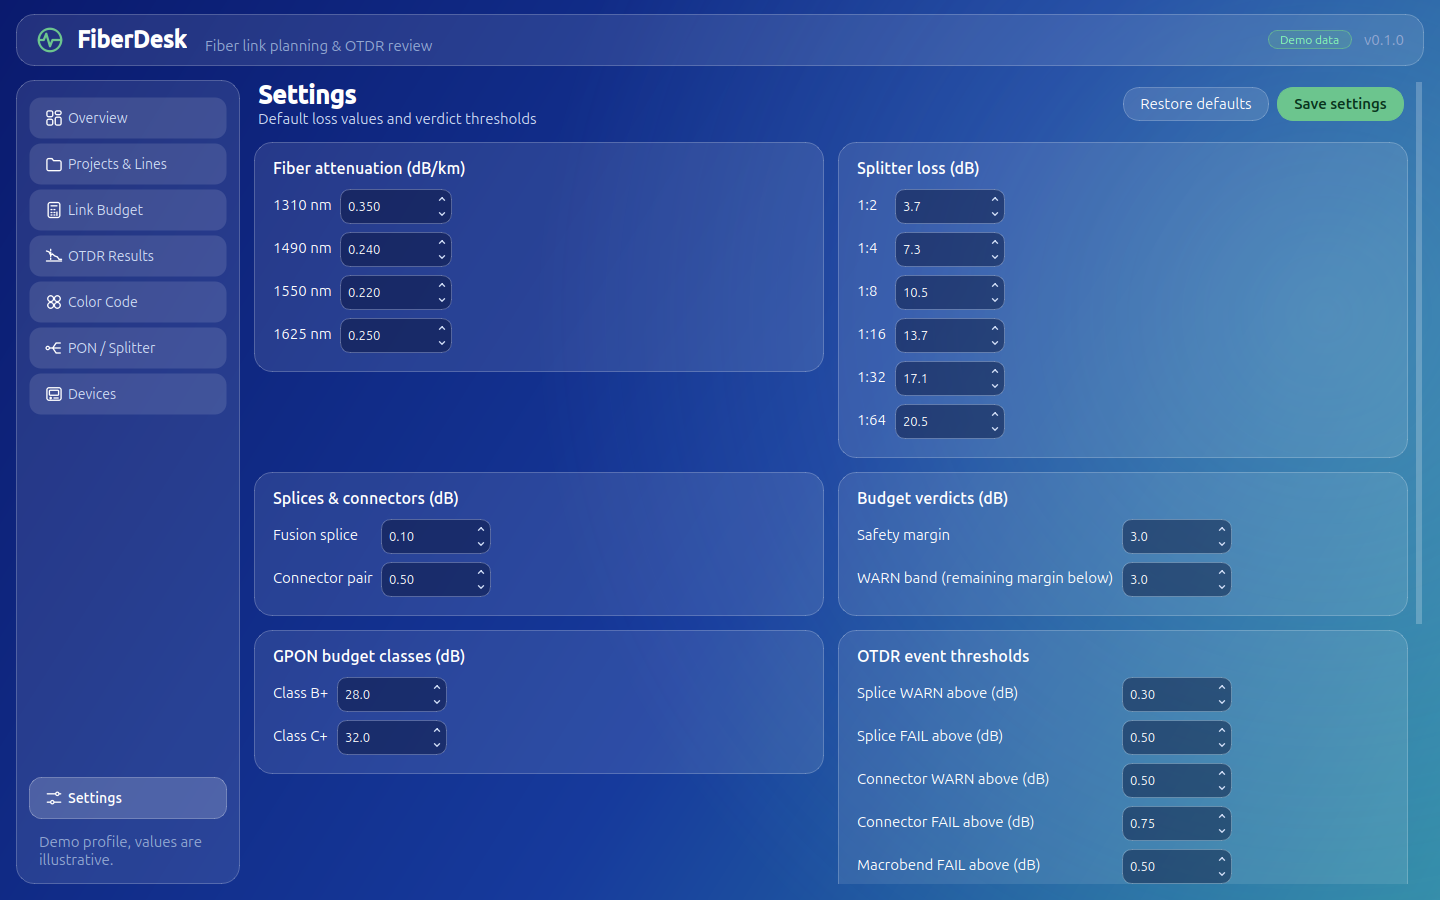
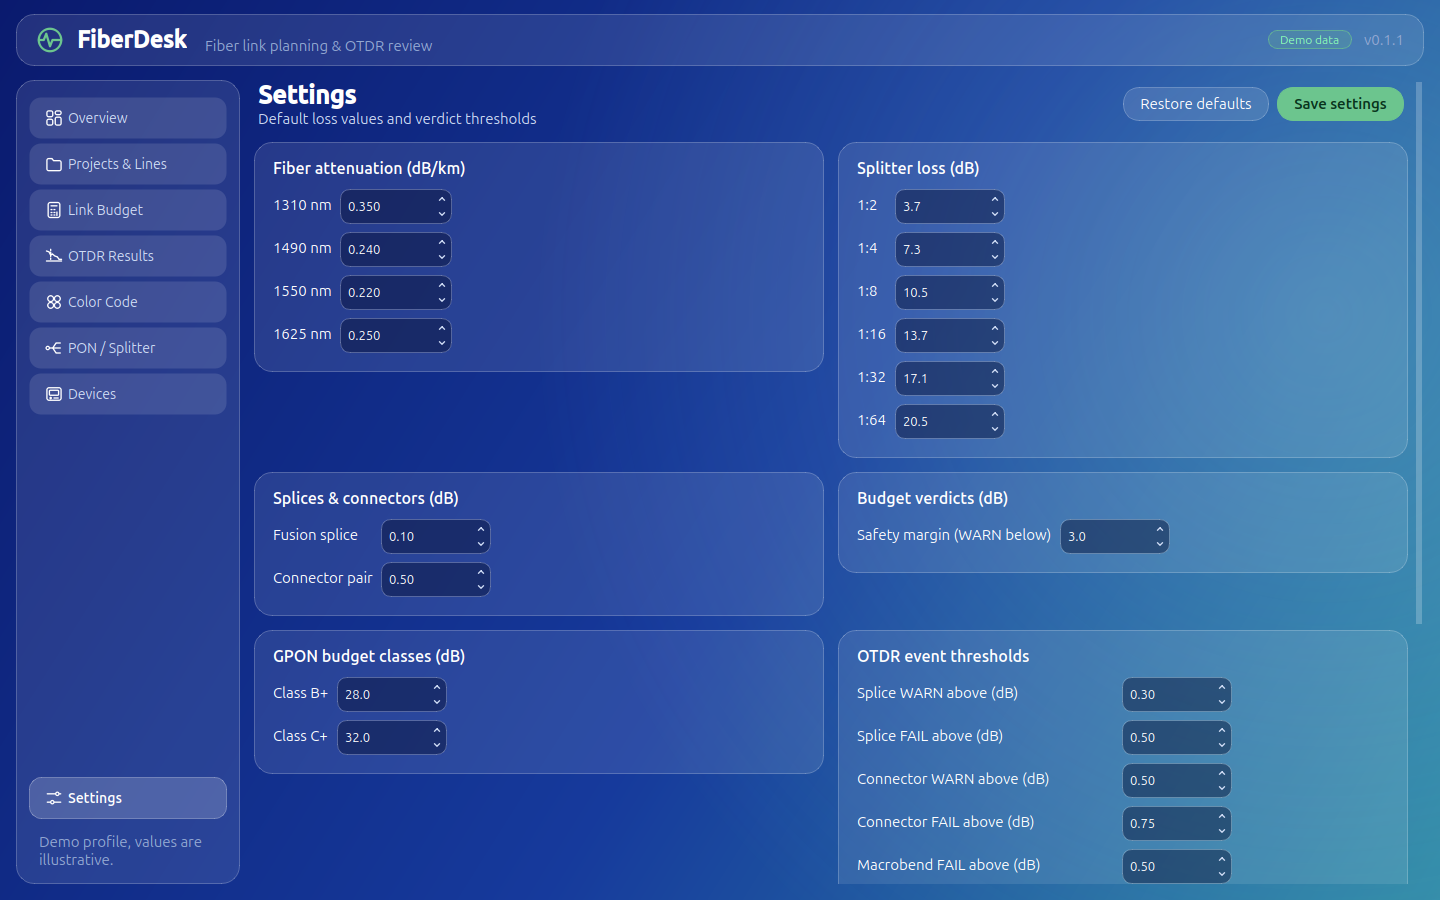
FiberDesk v0.1.1: safety margin as a threshold, CI
- Budget rule: remaining = power budget - total loss; FAIL below 0 dB,
  WARN below the safety margin, PASS otherwise. The separate WARN band
  setting is gone; the same rule grades the GPON B+/C+ classes.
- Link Budget screen shows power budget, total loss, remaining margin
  and required safety margin on separate rows
- Demo data regenerated: operators are role labels (Technician A-F),
  weaker optics keep a realistic mix of budget verdicts
- Tests updated for the new rule; screenshots refreshed
- README: Link budget and PON sections follow the new rule
- GitHub Actions workflow runs pytest on every push and pull request

Changed region(s): [[0.5938, 0.56, 0.875, 0.6844]]

diff --git a/fiberdesk/ui/pages/budget.py b/fiberdesk/ui/pages/budget.py
@@ -21,20 +21,6 @@ SPLITTER_PRESETS = ("", "1:2", "1:4", "1:8", "1:16", "1:32", "1:64", "1:4 + 1:8"
                     "1:2 + 1:16", "1:4 + 1:16")
 
 
-def metric(label: str) -> tuple[QWidget, QLabel]:
-    box = QWidget()
-    lay = QVBoxLayout(box)
-    lay.setContentsMargins(0, 0, 0, 0)
-    lay.setSpacing(0)
-    value = QLabel("—")
-    value.setObjectName("MidValue")
-    caption = QLabel(label)
-    caption.setObjectName("StatLabel")
-    lay.addWidget(value)
-    lay.addWidget(caption)
-    return box, value
-
-
 class BudgetPage(QWidget):
     def __init__(self, ctx: AppContext):
         super().__init__()
@@ -114,23 +100,28 @@ class BudgetPage(QWidget):
         self.badge = StatusBadge(None, large=True)
         top.addWidget(self.badge, 0, Qt.AlignmentFlag.AlignVCenter)
         top.addSpacing(10)
-        remaining_box = QVBoxLayout()
-        remaining_box.setSpacing(0)
-        self.remaining = QLabel("—")
-        self.remaining.setObjectName("BigValue")
-        cap = QLabel(tr("budget.remaining"))
-        cap.setObjectName("StatLabel")
-        remaining_box.addWidget(self.remaining)
-        remaining_box.addWidget(cap)
-        top.addLayout(remaining_box, 1)
+        self.verdict = QLabel()
+        self.verdict.setObjectName("StatLabel")
+        self.verdict.setWordWrap(True)
+        top.addWidget(self.verdict, 1)
         summary.body.addLayout(top)
+
+        # One row per figure; remaining margin and the required safety margin are separate.
         grid = QGridLayout()
         grid.setHorizontalSpacing(24)
-        boxes = [metric(tr("budget.available")), metric(tr("budget.total_loss")),
-                 metric(tr("budget.safety"))]
-        for i, (box, _) in enumerate(boxes):
-            grid.addWidget(box, 0, i)
-        self.available, self.total, self.safety_value = (v for _, v in boxes)
+        grid.setVerticalSpacing(6)
+        self.values: dict[str, QLabel] = {}
+        for r, key in enumerate(("available", "total_loss", "remaining", "safety")):
+            label = QLabel(tr(f"budget.{key}"))
+            label.setObjectName("StatLabel")
+            value = QLabel("—")
+            value.setObjectName("MidValue")
+            value.setAlignment(Qt.AlignmentFlag.AlignRight | Qt.AlignmentFlag.AlignVCenter)
+            value.setFont(theme.tabular(value.font()))
+            grid.addWidget(label, r, 0)
+            grid.addWidget(value, r, 1)
+            self.values[key] = value
+        grid.setColumnStretch(2, 1)
         summary.body.addLayout(grid)
         self.usage = SegmentBar(height=14)
         summary.body.addWidget(self.usage)
@@ -272,28 +263,29 @@ class BudgetPage(QWidget):
         res = calculate_budget(inp, self.ctx.defaults)
         self._result = res
         self.badge.set_status(res.status)
-        self.remaining.setText(f"{res.remaining_db:+.2f} dB")
-        self.remaining.setStyleSheet(f"color: {theme.status_color(res.status).name()};")
-        self.available.setText(f"{res.available_db:.2f} dB")
-        self.total.setText(f"{res.total_loss_db:.2f} dB")
-        self.safety_value.setText(f"{res.safety_margin_db:.2f} dB")
+        self.verdict.setText(tr(f"budget.verdict.{res.status.value}"))
+        self.values["available"].setText(f"{res.available_db:.2f} dB")
+        self.values["total_loss"].setText(f"{res.total_loss_db:.2f} dB")
+        self.values["remaining"].setText(f"{res.remaining_db:+.2f} dB")
+        self.values["remaining"].setStyleSheet(f"color: {theme.status_color(res.status).name()};")
+        self.values["safety"].setText(f"{res.safety_margin_db:.2f} dB")
 
+        # Losses, then the remaining margin split into the reserved safety part and the rest.
+        remaining = max(0.0, res.remaining_db)
+        reserved = min(remaining, res.safety_margin_db)
         segments = [(i.loss_db, theme.LOSS_COLORS[i.key]) for i in res.items]
-        segments.append((res.safety_margin_db, theme.LOSS_COLORS["safety"]))
-        segments.append((max(0.0, res.remaining_db), theme.LOSS_COLORS["remaining"]))
+        segments += [(reserved, theme.LOSS_COLORS["safety"]),
+                     (remaining - reserved, theme.LOSS_COLORS["remaining"])]
         self.usage.set_segments(segments)
         legend = [(tr(f"loss.{i.key}"), theme.LOSS_COLORS[i.key]) for i in res.items]
         legend += [(tr("loss.safety"), theme.LOSS_COLORS["safety"]),
                    (tr("loss.remaining"), theme.LOSS_COLORS["remaining"])]
         self.legend.setText("   ".join(f"<span style='color:{c}'>●</span> {t}" for t, c in legend))
-        self.rule.setText(tr("budget.rule", warn=f"{self.ctx.defaults.warn_band_db:g}"))
+        self.rule.setText(tr("budget.rule", safety=f"{res.safety_margin_db:g}"))
 
         rows = [(tr(f"loss.{i.key}"), i.loss_db, theme.LOSS_COLORS[i.key], f"{i.loss_db:.2f} dB")
                 for i in res.items]
-        rows.append((tr("loss.safety"), res.safety_margin_db, theme.LOSS_COLORS["safety"],
-                     f"{res.safety_margin_db:.2f} dB"))
-        self.chart.set_rows(rows, scale=max(res.available_db, res.total_loss_db
-                                            + res.safety_margin_db, 1.0))
+        self.chart.set_rows(rows, scale=max(res.available_db, res.total_loss_db, 1.0))
         self.details.setText("<br>".join(
             f"<b>{tr(f'loss.{i.key}')}</b>: {i.detail}" for i in res.items))
         self.save_btn.setEnabled(self.line_combo.currentData() is not None)

diff --git a/tests/test_budget.py b/tests/test_budget.py
@@ -17,8 +17,9 @@ def test_loss_items_use_default_table():
     assert losses["splitters"] == pytest.approx(17.1)
     assert result.total_loss_db == pytest.approx(22.0)
     assert result.available_db == pytest.approx(31.0)
-    # 31 - 22 - 3 (safety) = 6 dB left → PASS
-    assert result.remaining_db == pytest.approx(6.0)
+    # 31 - 22 = 9 dB left, above the 3 dB safety margin → PASS
+    assert result.remaining_db == pytest.approx(9.0)
+    assert result.safety_margin_db == pytest.approx(3.0)
     assert result.status is Status.PASS
 
 
@@ -29,9 +30,9 @@ def test_fiber_attenuation_per_wavelength(wavelength, expected):
 
 
 @pytest.mark.parametrize("rx, status", [
-    (-13.0, Status.FAIL),  # 13 - 10.5 - 3 = -0.5
-    (-15.0, Status.WARN),  # 1.5
-    (-17.0, Status.PASS),  # 3.5
+    (-10.0, Status.FAIL),  # 10 - 10.5 = -0.5
+    (-12.0, Status.WARN),  # 1.5, below the 3 dB safety margin
+    (-14.0, Status.PASS),  # 3.5
 ])
 def test_status_bands(rx, status):
     # Loss is exactly 10.5 dB (one 1:8 splitter), safety 3 dB.
@@ -41,12 +42,22 @@ def test_status_bands(rx, status):
     assert result.status is status
 
 
-def test_warn_band_edges():
+def test_safety_margin_edges():
     base = dict(length_km=0.0, wavelength_nm=1310, splices=0, connectors=0)
-    # remaining exactly 0 → WARN, exactly 3 → PASS
-    assert calculate_budget(BudgetInput(0.0, -3.0, **base)).status is Status.WARN
-    assert calculate_budget(BudgetInput(0.0, -6.0, **base)).status is Status.PASS
-    assert calculate_budget(BudgetInput(0.0, -2.99, **base)).status is Status.FAIL
+    # No loss: remaining = power budget. Exactly 0 → WARN, exactly the safety margin → PASS.
+    assert calculate_budget(BudgetInput(0.0, 0.0, **base)).status is Status.WARN
+    assert calculate_budget(BudgetInput(0.0, -2.99, **base)).status is Status.WARN
+    assert calculate_budget(BudgetInput(0.0, -3.0, **base)).status is Status.PASS
+    assert calculate_budget(BudgetInput(0.0, 0.01, **base)).status is Status.FAIL
+
+
+def test_safety_margin_is_a_threshold_not_a_loss():
+    inp = dict(tx_power_dbm=0.0, rx_sensitivity_dbm=-10.0, length_km=0.0, wavelength_nm=1310,
+               splices=0, connectors=2)
+    strict = calculate_budget(BudgetInput(**inp, safety_margin_db=9.5))
+    relaxed = calculate_budget(BudgetInput(**inp, safety_margin_db=1.0))
+    assert strict.remaining_db == relaxed.remaining_db == pytest.approx(9.0)
+    assert (strict.status, relaxed.status) == (Status.WARN, Status.PASS)
 
 
 def test_explicit_safety_margin_and_custom_defaults():

diff --git a/fiberdesk/i18n.py b/fiberdesk/i18n.py
@@ -52,7 +52,7 @@ EN: dict[str, str] = {
     "loss.connectors": "Connectors",
     "loss.splitters": "Splitters",
     "loss.bends": "Bends",
-    "loss.safety": "Safety margin",
+    "loss.safety": "Safety reserve",
     "loss.remaining": "Remaining",
 
     # Dashboard
@@ -135,20 +135,23 @@ EN: dict[str, str] = {
     "budget.splices": "Splices",
     "budget.connectors": "Connectors (pairs)",
     "budget.splitters": "Splitter cascade",
-    "budget.safety": "Safety margin",
+    "budget.safety": "Safety margin (required)",
     "budget.result": "Result",
     "budget.available": "Power budget",
     "budget.total_loss": "Total loss",
     "budget.remaining": "Remaining margin",
+    "budget.verdict.PASS": "Remaining margin covers the safety margin.",
+    "budget.verdict.WARN": "Link closes, but the remaining margin is below the safety margin.",
+    "budget.verdict.FAIL": "Losses exceed the power budget.",
     "budget.breakdown": "Loss breakdown",
-    "budget.breakdown_hint": "Share of the power budget used by each item",
+    "budget.breakdown_hint": "Loss of each item against the power budget",
     "budget.save": "Save to line",
     "budget.saved": "Saved to {line} at {time}",
     "budget.last_saved": "Last saved {time}: {status}, {margin} dB",
     "budget.never_saved": "No budget saved for this line yet",
     "budget.reset": "Reset",
     "budget.bad_splitter": "Splitter cascade not understood. Use ratios like 1:4 + 1:8.",
-    "budget.rule": "Remaining = budget − loss − safety. Below 0 dB FAIL, under {warn} dB WARN.",
+    "budget.rule": "Remaining margin = power budget − total loss. Below 0 dB FAIL, below the {safety} dB safety margin WARN, otherwise PASS.",
 
     # OTDR
     "otdr.title": "OTDR Results",
@@ -269,8 +272,7 @@ EN: dict[str, str] = {
     "set.connector": "Connector pair",
     "set.splitters": "Splitter loss (dB)",
     "set.verdicts": "Budget verdicts (dB)",
-    "set.safety": "Safety margin",
-    "set.warn_band": "WARN band (remaining margin below)",
+    "set.safety": "Safety margin (WARN below)",
     "set.gpon": "GPON budget classes (dB)",
     "set.gpon_b": "Class B+",
     "set.gpon_c": "Class C+",

diff --git a/fiberdesk/storage/seed.py b/fiberdesk/storage/seed.py
@@ -27,7 +27,8 @@ DEFAULT_SEED = 598
 REFERENCE_DATE = datetime(2026, 10, 15, 17, 0)  # demo "today"; measurements fall in the 6 months before
 RECEIVE_FIBER_KM = 0.15
 
-OPERATORS = ("Ece Yalın", "Burak Tunç", "Selin Akdağ", "Kaan Oruç", "Nil Sarp", "Emre Kılıç")
+# Role labels rather than personal names, so no real person can be implied.
+OPERATORS = tuple(f"Technician {c}" for c in "ABCDEF")
 
 DEVICES = (
     ("maxtester-730d", "FD7D-24-0117", "2026-03-11", "PON Field Team"),
@@ -100,11 +101,11 @@ class Layout:
 # Transmitter power / receiver sensitivity pairs (dBm) per style. The first entry is
 # the usual optic; the others are weaker parts that leave some links tight on budget.
 OPTICS = {
-    "pon": ((3.0, -28.0), (3.0, -28.0), (1.5, -27.0)),
+    "pon": ((3.0, -28.0), (3.0, -28.0), (0.5, -25.0)),
     "backbone": ((2.0, -24.0), (2.0, -24.0), (0.0, -20.0)),
-    "ring": ((-1.0, -18.0), (-1.0, -18.0), (-3.0, -14.0)),
-    "campus": ((-1.0, -14.4), (-1.0, -14.4), (-6.0, -12.6)),
-    "bts": ((-1.0, -14.4), (-1.0, -14.4), (-4.0, -14.4)),
+    "ring": ((-1.0, -18.0), (-1.0, -18.0), (-5.0, -14.0)),
+    "campus": ((-1.0, -14.4), (-1.0, -14.4), (-8.2, -12.6)),
+    "bts": ((-1.0, -14.4), (-1.0, -14.4), (-8.2, -14.4)),
 }
 
 

diff --git a/fiberdesk/core/budget.py b/fiberdesk/core/budget.py
@@ -37,7 +37,7 @@ class BudgetInput:
     splices: int = 0
     connectors: int = 2
     splitters: tuple[int, ...] = ()
-    safety_margin_db: float | None = None  # None → use Defaults.safety_margin_db
+    safety_margin_db: float | None = None  # required headroom; None → Defaults.safety_margin_db
 
     def __post_init__(self) -> None:
         if self.length_km < 0:
@@ -93,13 +93,13 @@ def calculate_budget(inp: BudgetInput, defaults: Defaults | None = None) -> Budg
     total = sum(i.loss_db for i in items)
     available = inp.tx_power_dbm - inp.rx_sensitivity_dbm
     safety = defaults.safety_margin_db if inp.safety_margin_db is None else inp.safety_margin_db
-    remaining = available - total - safety
+    remaining = available - total
     return BudgetResult(
         items=items,
         available_db=available,
         total_loss_db=total,
         safety_margin_db=safety,
         remaining_db=remaining,
-        status=grade_margin(remaining, defaults.warn_band_db),
+        status=grade_margin(remaining, safety),
         loss_by_key={i.key: i.loss_db for i in items},
     )

diff --git a/tests/test_pon.py b/tests/test_pon.py
@@ -35,7 +35,14 @@ def test_class_verdicts_differ_on_large_split():
     b_plus, c_plus = result.classes
     assert result.total_loss_db == pytest.approx(30.0)
     assert b_plus.status is Status.FAIL
-    assert c_plus.status is Status.WARN  # 2 dB left, inside the 3 dB warn band
+    assert c_plus.status is Status.WARN  # 2 dB left, below the 3 dB safety margin
+
+
+def test_class_verdict_follows_safety_margin():
+    inp = PonInput(3.0, (32,), 10.0, 1490, connectors=2)  # 17.1 + 2.4 + 1.0 = 20.5 dB
+    assert calculate_pon(inp).classes[0].status is Status.PASS  # 7.5 dB left on B+
+    strict = Defaults.from_dict({"safety_margin_db": 8.0})
+    assert calculate_pon(inp, strict).classes[0].status is Status.WARN
 
 
 def test_no_stages_and_custom_budget():

diff --git a/fiberdesk/ui/pages/settings.py b/fiberdesk/ui/pages/settings.py
@@ -15,8 +15,7 @@ from ..widgets import Card, FlowGrid, PageHeader, dspin, scrollable
 SCALARS = {
     "set.components": (("splice_loss_db", "set.splice", 0, 2, 0.01, 2),
                        ("connector_loss_db", "set.connector", 0, 3, 0.05, 2)),
-    "set.verdicts": (("safety_margin_db", "set.safety", 0, 20, 0.5, 1),
-                     ("warn_band_db", "set.warn_band", 0, 20, 0.5, 1)),
+    "set.verdicts": (("safety_margin_db", "set.safety", 0, 20, 0.5, 1),),
     "set.gpon": (("gpon_b_plus_db", "set.gpon_b", 10, 50, 0.5, 1),
                  ("gpon_c_plus_db", "set.gpon_c", 10, 50, 0.5, 1)),
     "set.events": (("splice_warn_db", "set.splice_warn", 0, 5, 0.01, 2),

diff --git a/fiberdesk/core/status.py b/fiberdesk/core/status.py
@@ -28,11 +28,11 @@ class Status(str, Enum):
 _RANK = {Status.PASS: 0, Status.WARN: 1, Status.FAIL: 2}
 
 
-def grade_margin(margin_db: float, warn_band_db: float) -> Status:
-    """Grade a remaining margin: below zero fails, inside the warn band warns."""
+def grade_margin(margin_db: float, safety_margin_db: float) -> Status:
+    """Grade a remaining margin: below zero fails, below the safety margin warns."""
     if margin_db < 0:
         return Status.FAIL
-    if margin_db < warn_band_db:
+    if margin_db < safety_margin_db:
         return Status.WARN
     return Status.PASS
 

diff --git a/fiberdesk/core/pon.py b/fiberdesk/core/pon.py
@@ -75,7 +75,8 @@ def calculate_pon(inp: PonInput, defaults: Defaults | None = None) -> PonResult:
 
     total = inp.olt_power_dbm - power
     classes = tuple(
-        ClassVerdict(name, budget, budget - total, grade_margin(budget - total, defaults.warn_band_db))
+        ClassVerdict(name, budget, budget - total,
+                     grade_margin(budget - total, defaults.safety_margin_db))
         for name, budget in (("B+", defaults.gpon_b_plus_db), ("C+", defaults.gpon_c_plus_db))
     )
     return PonResult(

diff --git a/fiberdesk/core/defaults.py b/fiberdesk/core/defaults.py
@@ -30,9 +30,8 @@ class Defaults:
     splice_loss_db: float = 0.10
     connector_loss_db: float = 0.50
     splitter_loss_db: dict[int, float] = field(default_factory=_splitter_loss)
-    # Budget verdicts
+    # Budget verdicts: a remaining margin below this warns, below zero fails
     safety_margin_db: float = 3.0
-    warn_band_db: float = 3.0
     # GPON optical budget classes (ITU-T G.984.2)
     gpon_b_plus_db: float = 28.0
     gpon_c_plus_db: float = 32.0

diff --git a/fiberdesk/__init__.py b/fiberdesk/__init__.py
@@ -1,3 +1,3 @@
 """FiberDesk — fiber link planning and OTDR result review."""
 
-__version__ = "0.1.0"
+__version__ = "0.1.1"

diff --git a/README.md b/README.md
@@ -14,7 +14,7 @@ FiberDesk calculates link budgets and PON splitter cascades, shows OTDR traces w
 |---|---|
 | **Overview** | Counts of projects, lines, measurements and devices; PASS / WARN / FAIL distribution for OTDR results and saved link budgets; recent measurements; per-project health. |
 | **Projects & Lines** | Projects (an FTTH area, a backbone…) with their A–B lines: length, fiber type (G.652.D / G.657.A1), connectors, splices, splitter cascade, optics. Add / edit / delete, search and filters. |
-| **Link Budget** | Tx power, Rx sensitivity, length, wavelength, splices, connectors, splitter cascade, safety margin. Shows total loss, remaining margin, verdict and a loss breakdown chart. Results can be saved to a line. |
+| **Link Budget** | Tx power, Rx sensitivity, length, wavelength, splices, connectors, splitter cascade, safety margin. Shows the power budget, total loss, remaining margin and required safety margin on separate rows, the verdict and a loss breakdown chart. Results can be saved to a line. |
 | **OTDR Results** | Measurement list with filters; a zoomable trace (distance km vs level dB) with event markers. Other wavelengths of the same line (1310 / 1550 / 1625 nm) can be overlaid. The event table shows type, loss, reflectance and section attenuation, coloured by threshold. Line budget vs OTDR loss is shown side by side. One-page PDF report. |
 | **Color Code** | TIA-598 lookup (e.g. fiber 37 of 48 → tube 4 Brown, fiber 1 Blue) and the full tube × fiber grid for 12–144 fiber cables. |
 | **PON / Splitter** | Cascaded split (e.g. 1:4 + 1:8). Shows OLT power down to subscriber power, total loss and the GPON class B+ / C+ verdict, with a power-along-the-path chart. |
@@ -64,8 +64,7 @@ You can also rebuild the demo data from **Settings → Demo data**. `FIBERDESK_D
 | Connector pair | 0.50 dB (WARN above 0.50, FAIL above 0.75) |
 | Splitter 1:2 / 1:4 / 1:8 / 1:16 / 1:32 / 1:64 | 3.7 / 7.3 / 10.5 / 13.7 / 17.1 / 20.5 dB |
 | GPON class B+ / C+ budget | 28 / 32 dB |
-| Safety margin | 3 dB |
-| WARN band | remaining margin 0–3 dB |
+| Safety margin | 3 dB (remaining margin below this is WARN) |
 | Reflectance | WARN above −45 dB, FAIL above −35 dB |
 | Macrobend | always at least WARN, FAIL above 0.5 dB |
 | Splitter tolerance | WARN above nominal + 1 dB, FAIL above nominal + 2 dB |
@@ -76,13 +75,17 @@ You can also rebuild the demo data from **Settings → Demo data**. `FIBERDESK_D
 power budget  = Tx power − Rx sensitivity
 total loss    = length × attenuation(λ) + splices × splice loss
                 + connectors × connector loss + Σ splitter loss
-remaining     = power budget − total loss − safety margin
-verdict       = FAIL if remaining < 0, WARN if remaining < WARN band, else PASS
+remaining     = power budget − total loss
+verdict       = FAIL  if remaining < 0
+                WARN  if 0 ≤ remaining < safety margin
+                PASS  if remaining ≥ safety margin
 ```
+
+The safety margin is the headroom a link must keep. It is a threshold, not a loss: it is never subtracted from the budget, and the screen shows it on its own row next to the remaining margin.
 
 ### PON
 
-The OLT output power minus the losses along the path gives the power at the ONU. The total loss is compared with the B+ and C+ class budgets, using the same WARN band.
+The OLT output power minus the losses along the path gives the power at the ONU. For each GPON class the remaining margin is the class budget (B+ 28 dB, C+ 32 dB) minus the total loss, graded with the same rule as the link budget: FAIL below 0 dB, WARN below the safety margin, PASS otherwise.
 
 ### OTDR
 
@@ -97,6 +100,8 @@ Demo traces use a simple model: backscatter slope, step losses, reflective peaks
 ```bash
 .venv/bin/python -m pytest
 ```
+
+GitHub Actions runs the suite on every push and pull request (`.github/workflows/tests.yml`).
 
 The suite covers the calculation core (budget, splitter / PON, colour code, OTDR events and traces), the database layer and demo seed, and an offscreen smoke test of every screen, including PDF export.
 
